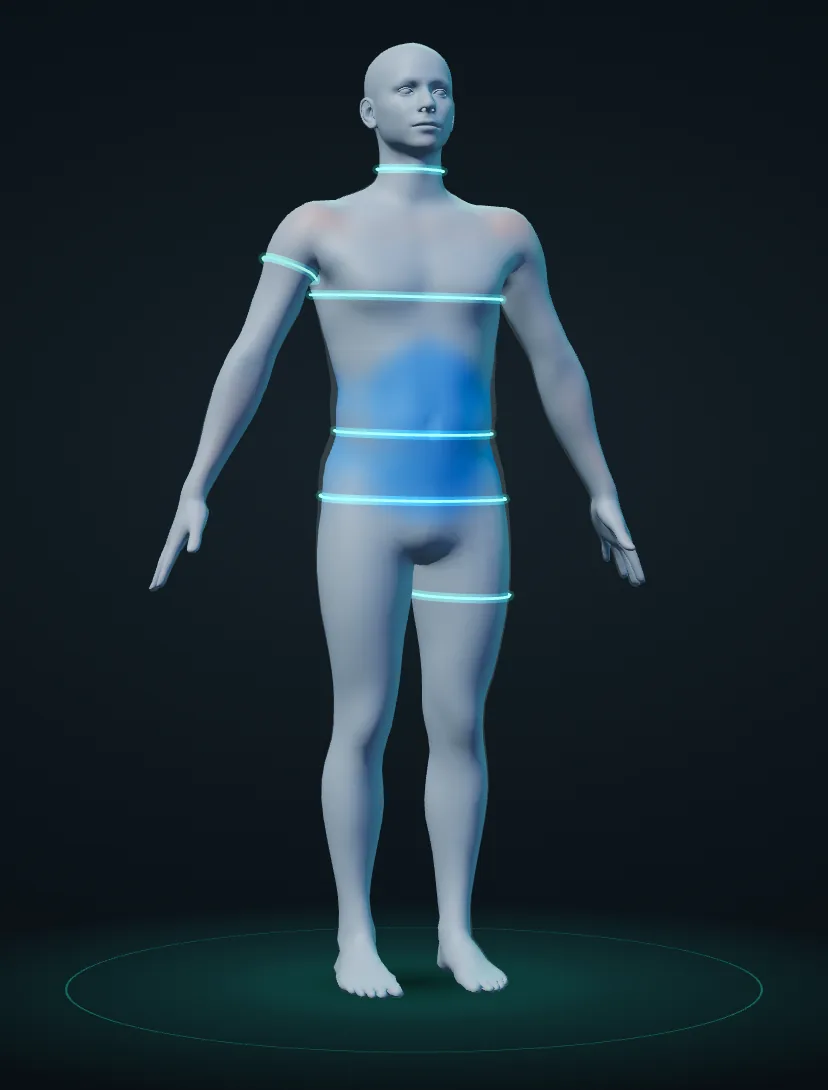
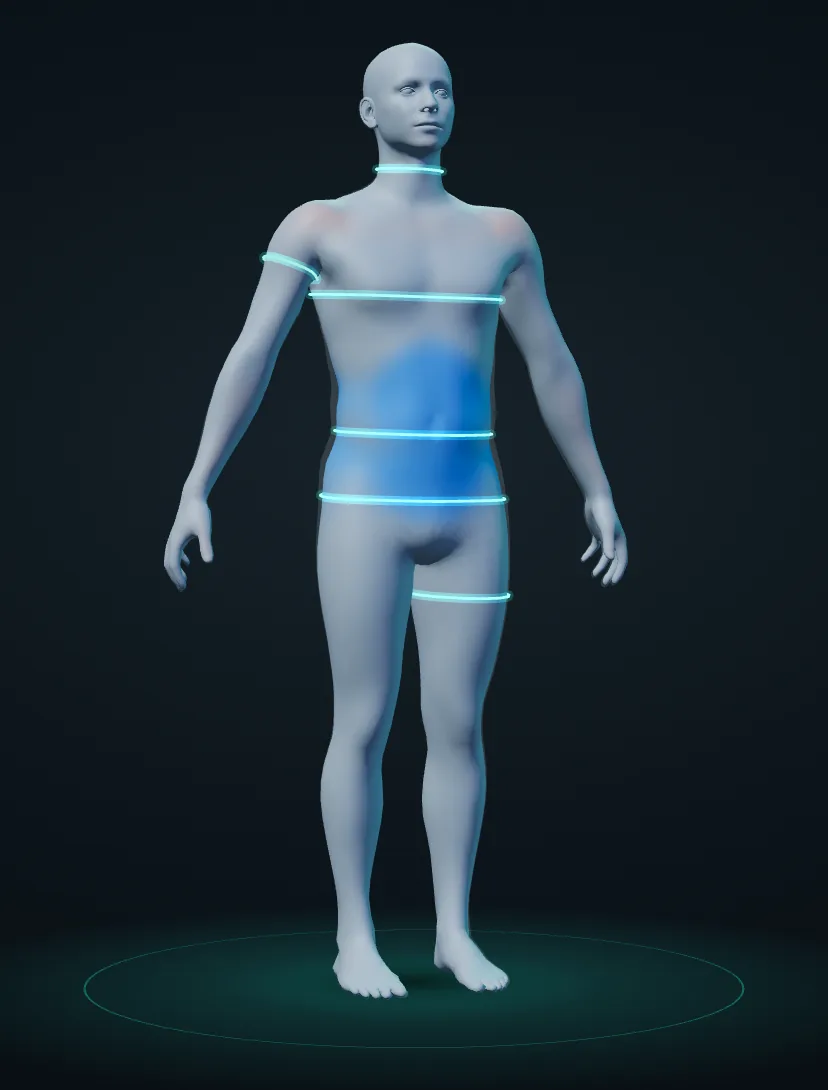
Updates

diff --git a/developers/index.html b/developers/index.html
@@ -1050,6 +1050,7 @@ curl https://api.snapmeasureai.com/v1/measurements \
           <tr><td data-l="Field"><span class="field">unit</span><span class="req req--opt">Optional</span></td><td data-l="Type"><span class="type">string</span></td><td data-l="Description"><code>cm</code>, <code>mm</code> or <code>in</code>. Default: your account's setting, or the height's unit.</td></tr>
           <tr><td data-l="Field"><span class="field">weight_unit</span><span class="req req--opt">Optional</span></td><td data-l="Type"><span class="type">string</span></td><td data-l="Description"><code>kg</code> or <code>lb</code>, for the estimated weight. Default: <code>lb</code> when the measurements are in inches, otherwise <code>kg</code>.</td></tr>
           <tr><td data-l="Field"><span class="field">pose</span><span class="req req--opt">Optional</span></td><td data-l="Type"><span class="type">string | object</span></td><td data-l="Description">Pose of the 3D files: <code>a_pose</code> (default), <code>t_pose</code>, or your own angles such as <code>{"arms": 45, "legs": 6}</code>. See <a href="#mesh" class="ok">3D files</a>.</td></tr>
+          <tr><td data-l="Field"><span class="field">hands</span><span class="req req--opt">Optional</span></td><td data-l="Type"><span class="type">string</span></td><td data-l="Description">How the hands look in the viewer and 3D files: <code>relaxed</code> (default, fingers gently curled) or <code>flat</code> (fingers straight). Measurements are the same either way.</td></tr>
           <tr><td data-l="Field"><span class="field">watertight</span><span class="req req--opt">Optional</span></td><td data-l="Type"><span class="type">boolean</span></td><td data-l="Description"><code>true</code>: the OBJ and glTF are one closed surface, for cloth simulation, physics and 3D printing.</td></tr>
           <tr><td data-l="Field"><span class="field">mesh_units</span><span class="req req--opt">Optional</span></td><td data-l="Type"><span class="type">string</span></td><td data-l="Description">OBJ units: <code>m</code> (default), <code>cm</code> or <code>mm</code>. glTF and geometry are always metres.</td></tr>
           <tr><td data-l="Field"><span class="field">viewer_style</span><span class="req req--opt">Optional</span></td><td data-l="Type"><span class="type">string</span></td><td data-l="Description"><code>studio</code> (every measurement, custom measurements) or <code>showcase</code> (the body large, with the key measurements on it).</td></tr>
@@ -1186,6 +1187,7 @@ curl https://api.snapmeasureai.com/v1/measurements \
   ],
   <span class="p">"outputs"</span>:    [<span class="s">"geometry"</span>, <span class="s">"glb"</span>, <span class="s">"obj"</span>, <span class="s">"viewer"</span>],
   <span class="p">"poses"</span>:      [<span class="s">"measure"</span>, <span class="s">"a_pose"</span>, <span class="s">"t_pose"</span>],
+  <span class="p">"hands"</span>:      [<span class="s">"relaxed"</span>, <span class="s">"flat"</span>], <span class="p">"default_hands"</span>: <span class="s">"relaxed"</span>,
   <span class="p">"pose_angles"</span>: { <span class="p">"arms"</span>: { <span class="p">"min"</span>: <span class="n">0</span>, <span class="p">"max"</span>: <span class="n">70</span> }, <span class="p">"legs"</span>: { <span class="p">"min"</span>: <span class="n">0</span>, <span class="p">"max"</span>: <span class="n">20</span> } },
   <span class="p">"units"</span>:      [<span class="s">"cm"</span>, <span class="s">"mm"</span>, <span class="s">"in"</span>],
   <span class="p">"size_charts"</span>: {},
@@ -1202,7 +1204,7 @@ curl https://api.snapmeasureai.com/v1/measurements \
   <div class="container">
     <p class="section__eyebrow">3D files</p>
     <h2 class="section__title">The same body, in the pose your pipeline needs.</h2>
-    <p class="section__sub">Measurements are always taken in the same pose, so these options change only the 3D files (<code>obj</code>, <code>glb</code>, <code>geometry</code>), never the numbers.</p>
+    <p class="section__sub">Measurements are always taken in the same pose, so these options change only the 3D files (<code>obj</code>, <code>glb</code>, <code>geometry</code>; <code>hands</code> also the viewer), never the numbers.</p>
 
     <div class="table-wrap stack">
       <table>
@@ -1211,6 +1213,8 @@ curl https://api.snapmeasureai.com/v1/measurements \
           <tr><td data-l="Option"><span class="field">pose</span></td><td data-l="Values"><code>a_pose</code> (default, also called <code>measure</code>): arms about 66° below horizontal, the pose measurements are taken in</td><td data-l="Use it for">Comparing scans, a natural standing body</td></tr>
           <tr><td data-l="Option"><span class="field">pose</span></td><td data-l="Values"><code>t_pose</code>: arms level, legs straight</td><td data-l="Use it for">Game engines, avatars, auto-rigging tools</td></tr>
           <tr><td data-l="Option"><span class="field">pose</span></td><td data-l="Values"><code>{"arms": 45, "legs": 6}</code>: arms 0–70° below horizontal, each leg 0–20° out</td><td data-l="Use it for">Cloth simulation, matching the avatar your garments were made on</td></tr>
+          <tr><td data-l="Option"><span class="field">hands</span></td><td data-l="Values"><code>relaxed</code> (default): fingers gently curled, thumb resting in, as hands hang when standing</td><td data-l="Use it for">Viewers, apps, avatars: anything people look at</td></tr>
+          <tr><td data-l="Option"><span class="field">hands</span></td><td data-l="Values"><code>flat</code>: fingers straight and spread</td><td data-l="Use it for">Tools that expect the straight-finger pose, such as retargeting onto a rig built on it</td></tr>
           <tr><td data-l="Option"><span class="field">watertight</span></td><td data-l="Values"><code>true</code>: one closed surface</td><td data-l="Use it for">Cloth collision, physics, volume, 3D printing</td></tr>
           <tr><td data-l="Option"><span class="field">mesh_units</span></td><td data-l="Values"><code>m</code>, <code>cm</code>, <code>mm</code> (OBJ)</td><td data-l="Use it for">CAD and cloth tools that expect cm or mm</td></tr>
         </tbody>
